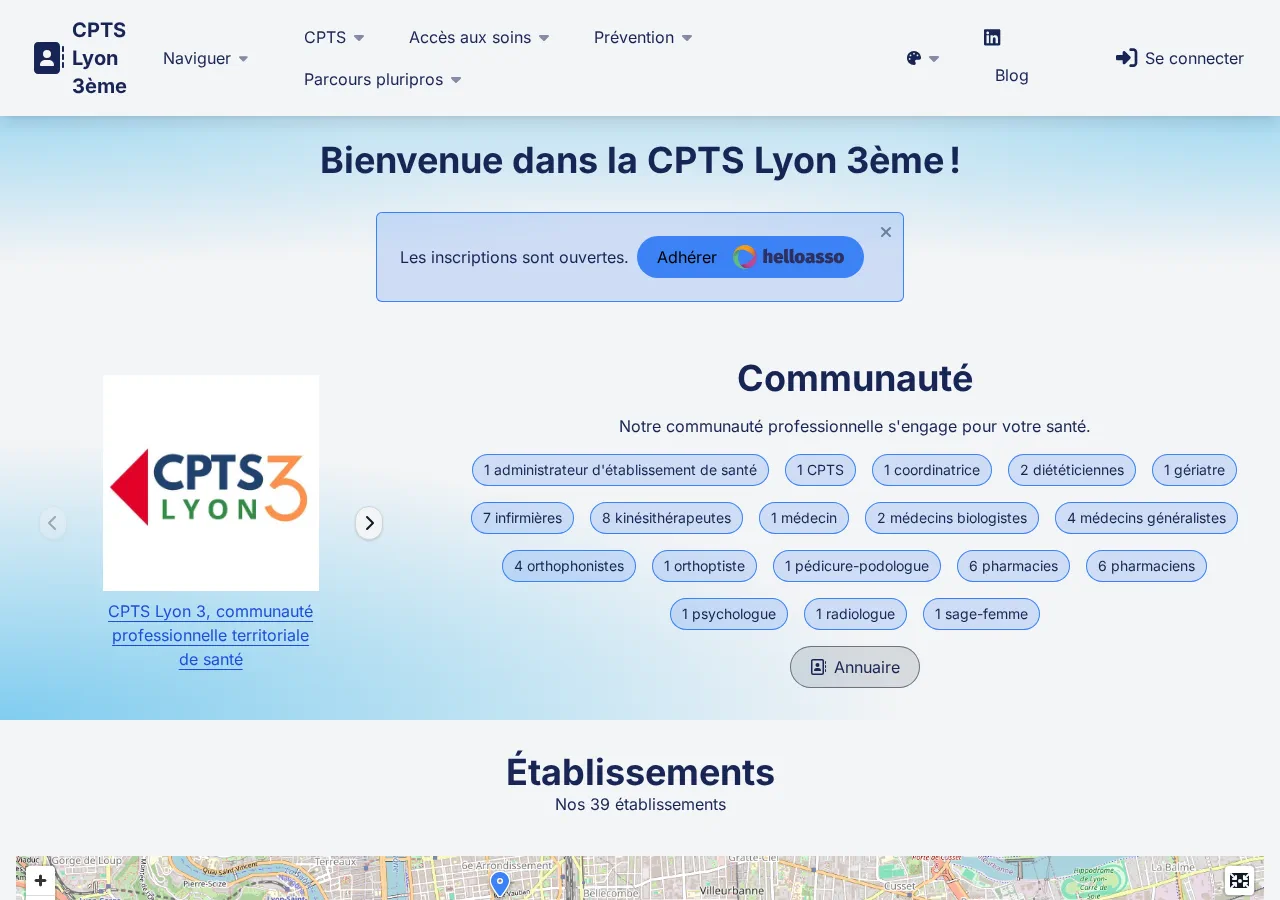
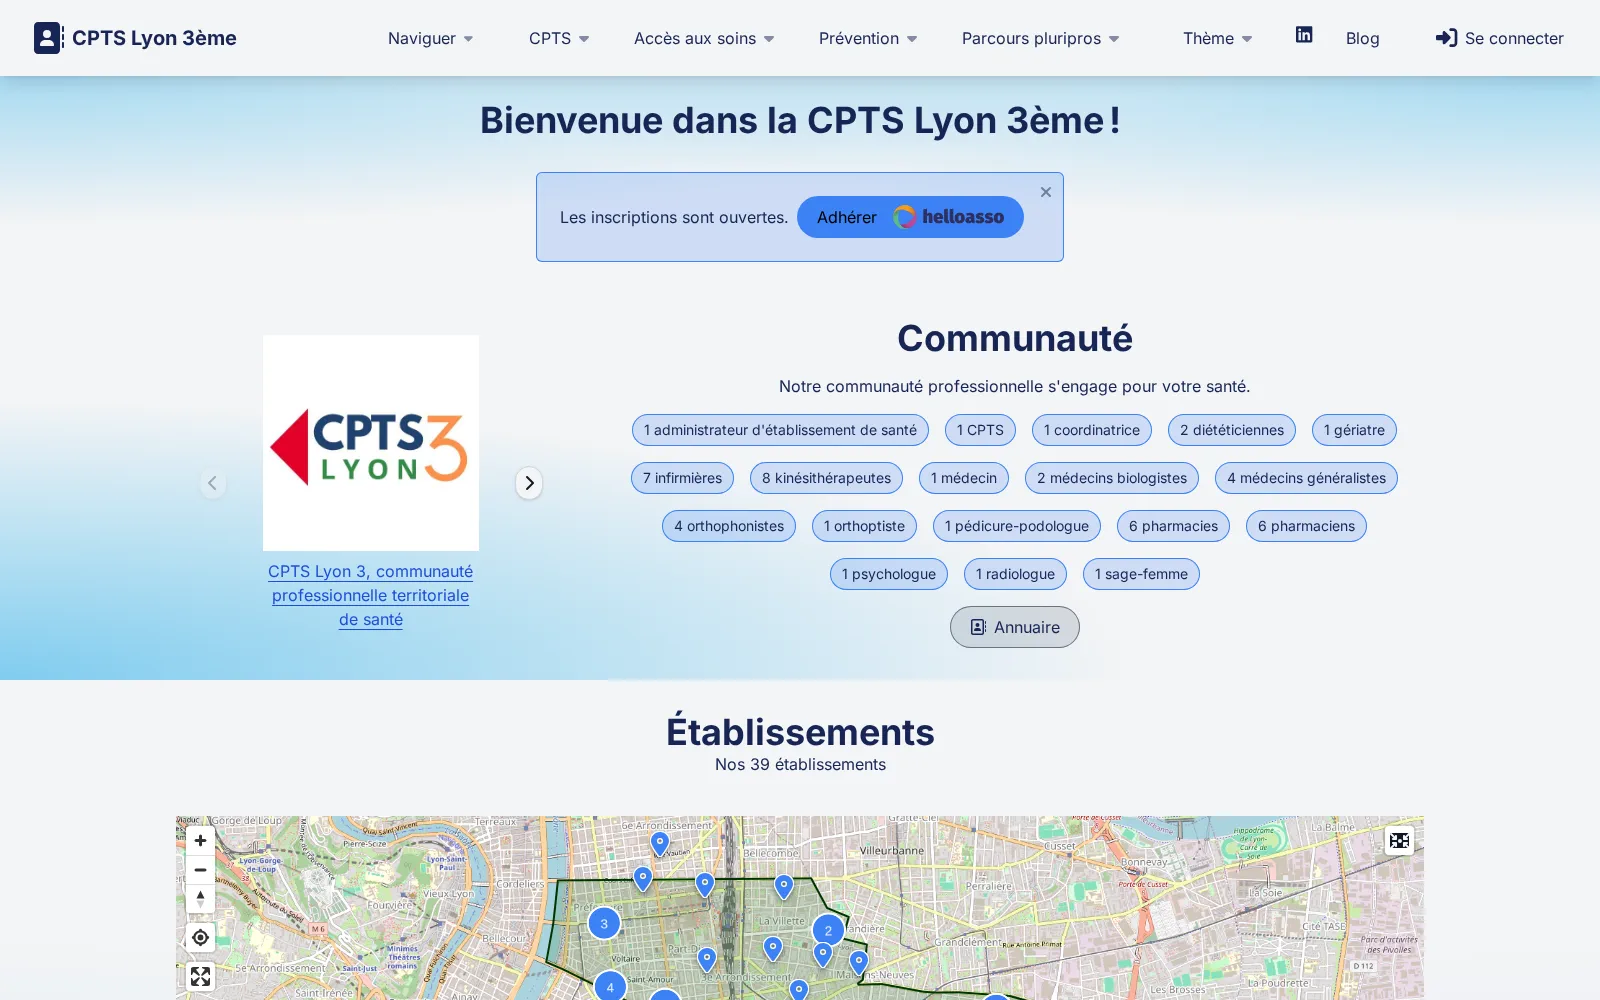
Retake the CPTS Lyon 3ème screenshots so the app bar is not garbled
At 1280px, santelyon3.fr's app bar wraps: the site title breaks over three
lines and the menu over two rows, which made the screenshots look broken.

- Santé mentale working-group page: now a phone capture (390px at 2x),
  framed like the annuaire screenshots. Shown at max-w-sm, its text stays
  readable, which a desktop capture shrunk to our 768px column is not.
- Homepage: now 1600x1000, the narrowest width where the app bar fits on
  one line. It shows the overall layout, so small text matters less.

The og:image JPG is cropped to 1200x630, the frame LinkedIn and Facebook
use, and drops from 292 KB to 114 KB.

diff --git a/src/routes/site-internet-cpts/+page.svelte b/src/routes/site-internet-cpts/+page.svelte
@@ -41,10 +41,10 @@
 		<h2 class="h2">Une page par mission socle, une page par groupe de travail</h2>
 		<figure class="space-y-2">
 			<img
-				class="rounded-container-token w-full border border-surface-500/20"
+				class="rounded-container-token mx-auto max-w-sm w-full border border-surface-500/20"
 				src={groupe}
-				width="1280"
-				height="900"
+				width="780"
+				height="1688"
 				alt="Page du groupe de travail Santé mentale sur le site de la CPTS Lyon 3ème: annuaire et télé-expertise réservés aux membres, convention avec l'hôpital"
 				loading="lazy"
 			/>
@@ -103,8 +103,8 @@
 			<img
 				class="rounded-container-token w-full border border-surface-500/20"
 				src={accueil}
-				width="1280"
-				height="900"
+				width="1600"
+				height="1000"
 				alt="Page d'accueil du site de la CPTS Lyon 3ème: membres de la communauté par profession et accès à l'annuaire"
 				loading="lazy"
 			/>
